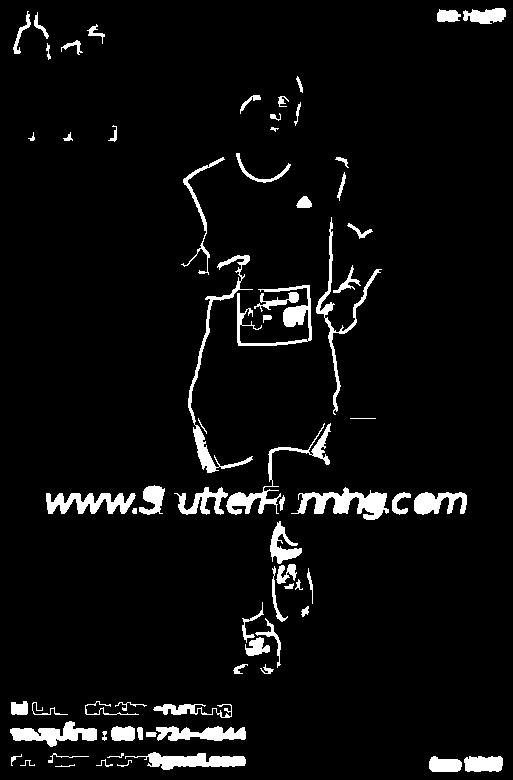
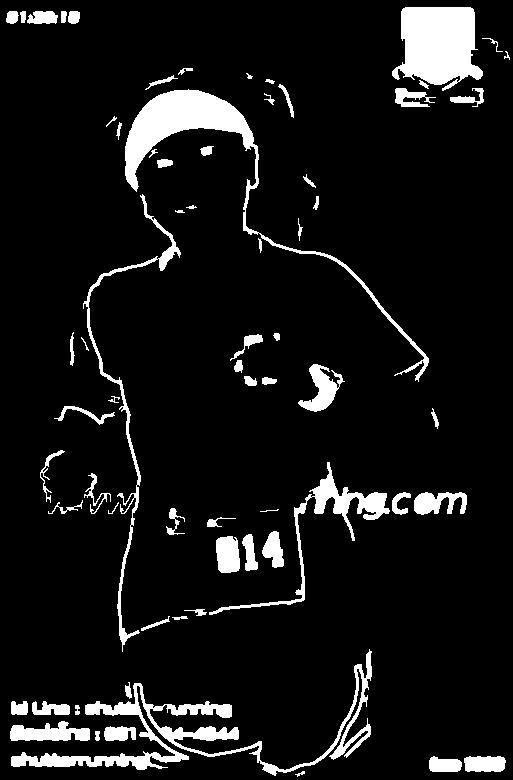
edge sobel success and fill sobel

diff --git a/Eachrgb.py b/Eachrgb.py
@@ -4,7 +4,9 @@ from skimage import data, io, filters , feature ,morphology
 from scipy import ndimage as ndi
 import matplotlib.image as mpimg
 import matplotlib.pyplot as plt
-modelcolor = cv2.imread('E:/git/testnc/tum/tum 1641.JPG')
+from skimage import data
+from skimage.filters import threshold_otsu, threshold_adaptive
+modelcolor = cv2.imread('E:/git/testnc/tum/tum 1393.JPG')
 modelcolorgray = cv2.cvtColor(modelcolor,cv2.COLOR_BGR2GRAY)
 imgred = modelcolor[:,:,0]
 cv2.imshow('imgred',imgred)
@@ -18,7 +20,7 @@ edgesgreen = cv2.Canny(imggreen,150,250);
 cv2.imshow('edgesred',edgesred)
 cv2.imshow('edgesblue',edgesblue)
 cv2.imshow('edgesgreen',edgesgreen)
-
+height, width = modelcolor.shape[:2]
 edgesr = filters.sobel(imgred)
 edgesg = filters.sobel(imggreen)
 edgesb = filters.sobel(imgblue)
@@ -60,81 +62,106 @@ cv2.imshow("origin00",edgesrgb)
 cv2.imshow("origin11",edgesr)
 cv2.imshow("origin22",edgesg)
 cv2.imshow("origin33",edgesb)
+copyso = sobelrgb
+copyso = 255-copyso
+cv2.imshow("copysobel",copyso)
 
-#red
-kernel = np.ones((1,2),np.uint8);
-dilationred = cv2.dilate(edgesr,kernel,iterations = 1)
-erosionred = cv2.erode(dilationred,kernel,iterations = 1)
-kernel1 = np.ones((2,1),np.uint8);
-dilationred1 = cv2.dilate(erosionred,kernel1,iterations = 1)
-erosionred1 = cv2.erode(dilationred1,kernel1,iterations = 1)
-height, width = modelcolor.shape[:2]
-crop_imgred = erosionred1[10:height-10, 10:width-10]
-cv2.imshow('dierred',crop_imgred)
-#blue
-dilationblue = cv2.dilate(edgesb,kernel,iterations = 1)
-erosionblue = cv2.erode(dilationblue,kernel,iterations = 1)
-dilationblue1 = cv2.dilate(erosionblue,kernel1,iterations = 1)
-erosionblue1 = cv2.erode(dilationblue1,kernel1,iterations = 1)
-crop_imgblue = erosionblue1[10:height-10, 10:width-10]
-cv2.imshow('dierblue',crop_imgblue)
-#green
-dilationgreen = cv2.dilate(edgesg,kernel,iterations = 1)
-erosiongreen = cv2.erode(dilationgreen,kernel,iterations = 1)
-dilationgreen1 = cv2.dilate(erosiongreen,kernel1,iterations = 1)
-erosiongreen1 = cv2.erode(dilationgreen1,kernel1,iterations = 1)
-crop_imggreen = erosiongreen1[10:height-10, 10:width-10]
-cv2.imshow('diergreen',crop_imggreen)
-#rgb
-dilationgreen = cv2.dilate(edgesrgb,kernel,iterations = 1)
-erosiongreen = cv2.erode(dilationgreen,kernel,iterations = 1)
-dilationgreen1 = cv2.dilate(erosiongreen,kernel1,iterations = 1)
-erosiongreen1 = cv2.erode(dilationgreen1,kernel1,iterations = 1)
-crop_imgrgb = erosiongreen1[10:height-10, 10:width-10]
-cv2.imshow('diergreen',crop_imgrgb)
 
-fill_img = ndi.binary_fill_holes(crop_imgred)
-img_cleaned2 = morphology.remove_small_objects(fill_img, 21)
+block_size = 40
+binary_adaptive = threshold_adaptive(copyso, block_size, offset=10)
+binary_adaptive = np.uint8(binary_adaptive)
+binary_adaptive[binary_adaptive==1] = 255
+binary_adaptive = 255-binary_adaptive
+crop_bisobel = binary_adaptive[10:height-10, 10:width-10]
+cv2.imshow('binary sobel',binary_adaptive)
+fill_img = ndi.binary_fill_holes(crop_bisobel)
+outsobeladaptive = np.uint8(fill_img)
+outsobeladaptive[outsobeladaptive>=1] = 255
+cv2.imwrite('sobelfill.jpg',outsobeladaptive)
 fig, ax = plt.subplots(figsize=(4, 3))
-ax.imshow(img_cleaned2, cmap=plt.cm.gray, interpolation='nearest')
+ax.imshow(fill_img, cmap=plt.cm.gray, interpolation='nearest')
 ax.axis('off')
-ax.set_title('Filling the holes r')
+ax.set_title('adaptiveThreshold')
 
-fill_img = ndi.binary_fill_holes(crop_imggreen)
-img_cleaned3 = morphology.remove_small_objects(fill_img, 21)
-fig, ax = plt.subplots(figsize=(4, 3))
-ax.imshow(img_cleaned3, cmap=plt.cm.gray, interpolation='nearest')
-ax.axis('off')
-ax.set_title('Filling the holes g')
+print binary_adaptive
+binary_adaptive = np.uint8(binary_adaptive)
+binary_adaptive[binary_adaptive==1] = 255
 
-fill_img = ndi.binary_fill_holes(crop_imgblue)
-img_cleaned4 = morphology.remove_small_objects(fill_img, 21)
-fig, ax = plt.subplots(figsize=(4, 3))
-ax.imshow(img_cleaned4, cmap=plt.cm.gray, interpolation='nearest')
-ax.axis('off')
-ax.set_title('Filling the holes b')
-
-fill_img = ndi.binary_fill_holes(crop_imgrgb)
-img_cleaned5 = morphology.remove_small_objects(fill_img, 21)
-fig, ax = plt.subplots(figsize=(4, 3))
-ax.imshow(img_cleaned5, cmap=plt.cm.gray, interpolation='nearest')
-ax.axis('off')
-ax.set_title('Filling the holes rgb')
-
-img_cleaned2 = np.uint8(img_cleaned2)
-img_cleaned3 = np.uint8(img_cleaned3)
-img_cleaned4 = np.uint8(img_cleaned4)
-img_cleaned5 = np.uint8(img_cleaned5)
-
-img_cleaned2[img_cleaned2==1] = 255
-img_cleaned3[img_cleaned3==1] = 255
-img_cleaned4[img_cleaned4==1] = 255
-img_cleaned5[img_cleaned5==1] = 255
-
-io.imsave('outedgesobelrgb.jpg',img_cleaned5)
-io.imsave('outedgesobelr.jpg',img_cleaned2)
-io.imsave('outedgesobelg.jpg',img_cleaned3)
-io.imsave('outedgesobelb.jpg',img_cleaned4)
+cv2.imshow("binary_adaptive",binary_adaptive)
+cv2.imwrite("adaptive.jpg",binary_adaptive)
+# #red
+# kernel = np.ones((1,2),np.uint8);
+# dilationred = cv2.dilate(edgesr,kernel,iterations = 1)
+# erosionred = cv2.erode(dilationred,kernel,iterations = 1)
+# kernel1 = np.ones((2,1),np.uint8);
+# dilationred1 = cv2.dilate(erosionred,kernel1,iterations = 1)
+# erosionred1 = cv2.erode(dilationred1,kernel1,iterations = 1)
+# crop_imgred = erosionred1[10:height-10, 10:width-10]
+# cv2.imshow('dierred',crop_imgred)
+# #blue
+# dilationblue = cv2.dilate(edgesb,kernel,iterations = 1)
+# erosionblue = cv2.erode(dilationblue,kernel,iterations = 1)
+# dilationblue1 = cv2.dilate(erosionblue,kernel1,iterations = 1)
+# erosionblue1 = cv2.erode(dilationblue1,kernel1,iterations = 1)
+# crop_imgblue = erosionblue1[10:height-10, 10:width-10]
+# cv2.imshow('dierblue',crop_imgblue)
+# #green
+# dilationgreen = cv2.dilate(edgesg,kernel,iterations = 1)
+# erosiongreen = cv2.erode(dilationgreen,kernel,iterations = 1)
+# dilationgreen1 = cv2.dilate(erosiongreen,kernel1,iterations = 1)
+# erosiongreen1 = cv2.erode(dilationgreen1,kernel1,iterations = 1)
+# crop_imggreen = erosiongreen1[10:height-10, 10:width-10]
+# cv2.imshow('diergreen',crop_imggreen)
+# #rgb
+# dilationgreen = cv2.dilate(edgesrgb,kernel,iterations = 1)
+# erosiongreen = cv2.erode(dilationgreen,kernel,iterations = 1)
+# dilationgreen1 = cv2.dilate(erosiongreen,kernel1,iterations = 1)
+# erosiongreen1 = cv2.erode(dilationgreen1,kernel1,iterations = 1)
+# crop_imgrgb = erosiongreen1[10:height-10, 10:width-10]
+# cv2.imshow('diergreen',crop_imgrgb)
+#
+# fill_img = ndi.binary_fill_holes(crop_imgred)
+# img_cleaned2 = morphology.remove_small_objects(fill_img, 21)
+# fig, ax = plt.subplots(figsize=(4, 3))
+# ax.imshow(img_cleaned2, cmap=plt.cm.gray, interpolation='nearest')
+# ax.axis('off')
+# ax.set_title('Filling the holes r')
+#
+# fill_img = ndi.binary_fill_holes(crop_imggreen)
+# img_cleaned3 = morphology.remove_small_objects(fill_img, 21)
+# fig, ax = plt.subplots(figsize=(4, 3))
+# ax.imshow(img_cleaned3, cmap=plt.cm.gray, interpolation='nearest')
+# ax.axis('off')
+# ax.set_title('Filling the holes g')
+#
+# fill_img = ndi.binary_fill_holes(crop_imgblue)
+# img_cleaned4 = morphology.remove_small_objects(fill_img, 21)
+# fig, ax = plt.subplots(figsize=(4, 3))
+# ax.imshow(img_cleaned4, cmap=plt.cm.gray, interpolation='nearest')
+# ax.axis('off')
+# ax.set_title('Filling the holes b')
+#
+# fill_img = ndi.binary_fill_holes(crop_imgrgb)
+# img_cleaned5 = morphology.remove_small_objects(fill_img, 21)
+# fig, ax = plt.subplots(figsize=(4, 3))
+# ax.imshow(img_cleaned5, cmap=plt.cm.gray, interpolation='nearest')
+# ax.axis('off')
+# ax.set_title('Filling the holes rgb')
+#
+# img_cleaned2 = np.uint8(img_cleaned2)
+# img_cleaned3 = np.uint8(img_cleaned3)
+# img_cleaned4 = np.uint8(img_cleaned4)
+# img_cleaned5 = np.uint8(img_cleaned5)
+#
+# img_cleaned2[img_cleaned2==1] = 255
+# img_cleaned3[img_cleaned3==1] = 255
+# img_cleaned4[img_cleaned4==1] = 255
+# img_cleaned5[img_cleaned5==1] = 255
+#
+# io.imsave('outedgesobelrgb.jpg',img_cleaned5)
+# io.imsave('outedgesobelr.jpg',img_cleaned2)
+# io.imsave('outedgesobelg.jpg',img_cleaned3)
+# io.imsave('outedgesobelb.jpg',img_cleaned4)
 
 io.show()
 plt.show()
